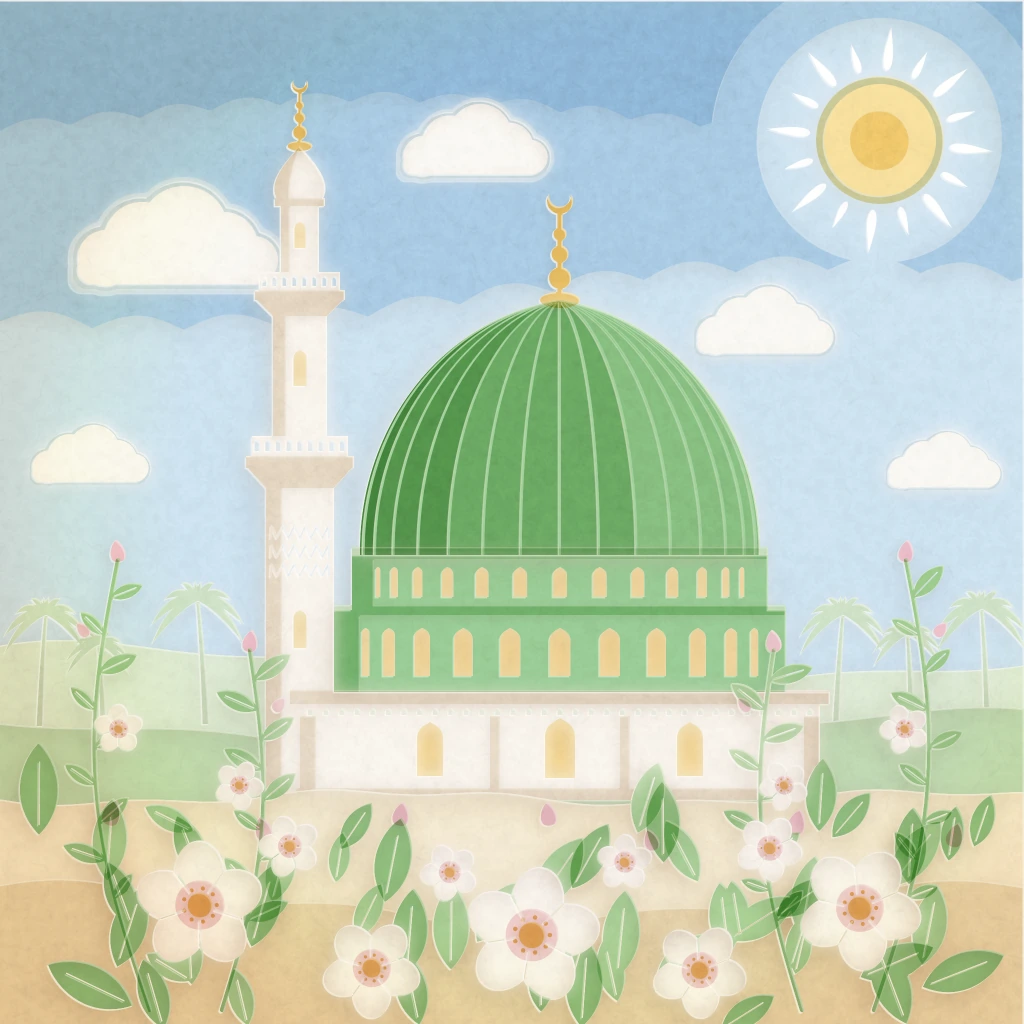
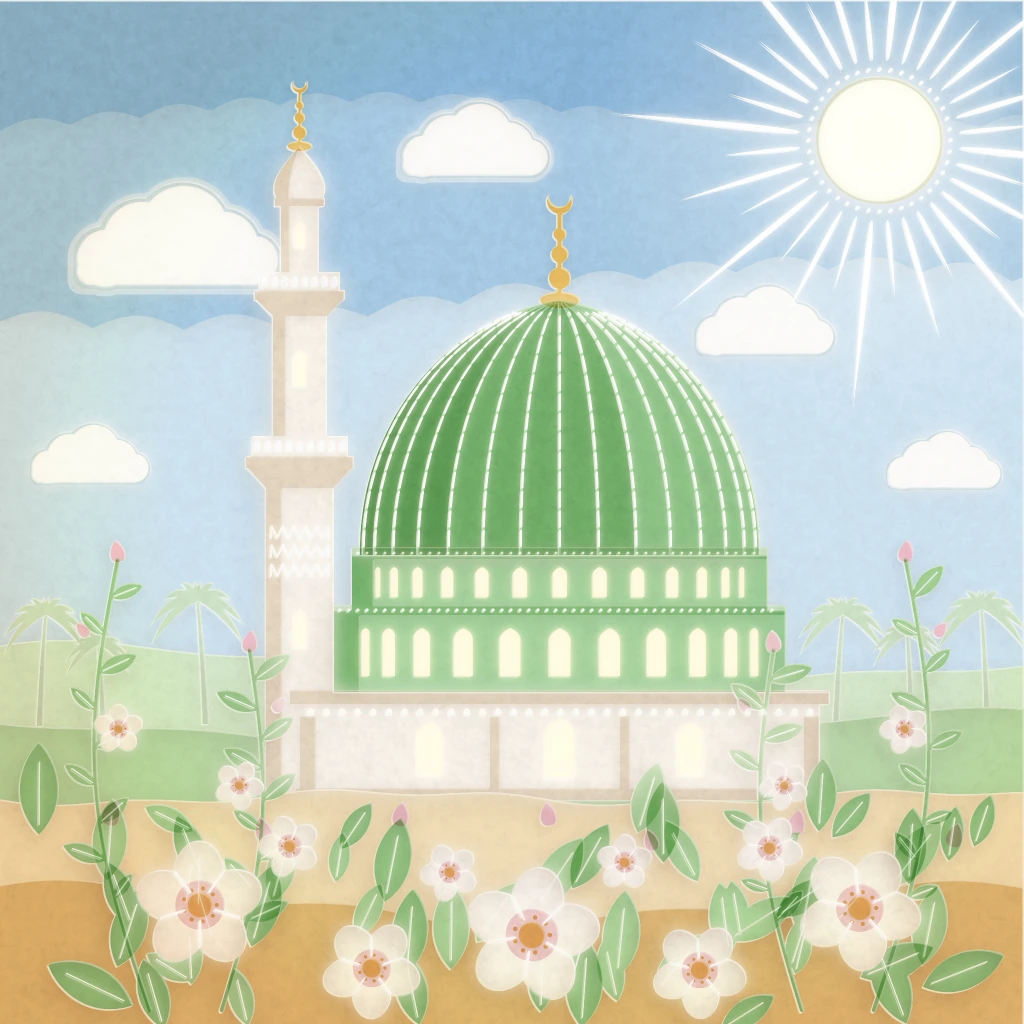
Atölye: dördüncü tur gözden geçirmelerinin ara kaydı
Claude-Session: https://claude.ai/code/session_01Q8CfoBGMPN7gfLWQYpMs1J

diff --git a/atolye/stiller/S-134-isikli-kagit-kutu/ornek.html b/atolye/stiller/S-134-isikli-kagit-kutu/ornek.html
@@ -282,7 +282,7 @@
     p.lineTo(1024, 1024); p.closePath();
     return p;
   }
-  katman('tepe1', (g) => { g.fill(tepe(668, 24, 0.6)); }, '#E1EFD8', { hale: { x: -4, y: 6, b: 12, a: 0.12 } });
+  katman('tepe1', (g) => { g.fill(tepe(668, 24, 0.6)); }, '#D9EDCE', { hale: { x: -4, y: 6, b: 12, a: 0.12 } });
   // uzak hurma ağaçları: iki tepe katı arasında ince siluetler (gövde dipleri öndeki tepenin arkasında kalır)
   function hurma(g, x, y, h, egik) {
     const tx = x + egik, ty = y - h;
@@ -306,7 +306,7 @@
   katman('hurma', (g) => {
     for (const [x, y, h, e] of [[40, 726, 112, 6], [104, 732, 88, -5], [206, 724, 124, -8], [836, 730, 116, 7], [912, 726, 92, -4], [988, 728, 120, -6]]) hurma(g, x, y, h, e);
   }, '#D4E8CC', { hale: { x: -3, y: 4, b: 8, a: 0.1 }, kenar: 0.4, isilti: 0.35, isiltiB: 6 });
-  katman('tepe2', (g) => { g.fill(tepe(730, 18, 2.3)); }, '#C6DFB9', { hale: { x: -4, y: 6, b: 12, a: 0.13 } });
+  katman('tepe2', (g) => { g.fill(tepe(730, 18, 2.3)); }, '#BCDCAC', { hale: { x: -4, y: 6, b: 12, a: 0.13 } });
 
   // ------------------------------------------------------------ 5–9: minare ve kaide — ince beyaz kâğıt, oyma pencereler parlar
   // pencerelerin arkasında amber ipek kâğıt (pencereler sıcak ışıkla yanar)
@@ -314,7 +314,10 @@
     for (const w of SAHNE.minarePencereleri) g.fill(P(dik(w.x - w.w / 2 - 2, w.y - 2, w.x + w.w / 2 + 2, w.y + w.h + 2)));
     for (const w of K.pencereler) g.fill(P(dik(w.x - w.w / 2 - 2, w.y - 2, w.x + w.w / 2 + 2, w.y + w.h + 2)));
     for (const k of [0, 1]) for (const p of SAHNE.kasnakPencereleri(k)) g.fill(P(dik(p.x - p.w / 2 - 1.5, p.y - 1.5, p.x + p.w / 2 + 1.5, p.y + p.h + 1.5)));
-  }, '#FFDF96', { hale: { a: 0 }, kenar: 0 });
+  }, '#FFE3A0', { hale: { a: 0 }, kenar: 0 });
+  for (const d of Yl.minarePencereleri) parla(d, 0, '#FFD780', 0.95);
+  for (const d of Yl.kaidePencereleri) parla(d, 0, '#FFD780', 0.95);
+  for (const d of Yl.kasnakPencereleri) parla(d, 0, '#FFD780', 0.95);
   katman('bina', (g) => {
     for (const d of Yl.minare) g.fill(P(d));
     g.fill(P(Yl.kaide)); g.fill(P(Yl.kornis));
@@ -324,14 +327,15 @@
     const zz = new Path2D();
     for (const z of SAHNE.zikzakCizgileri()) zz.addPath(P(SAHNE.yol(z.map(([x, y]) => [Math.max(271, Math.min(329, x)), y]))));
     yarik(g, zz, 1.8);
+    parla(zz, 1.8, '#FFF1D0', 0.8);
     // korkuluklarda kemer delikleri
     for (const [ad, n, w, h] of [['korkuluk-1', 9, 5.5, 11], ['korkuluk-2', 8, 5, 10]]) {
       const k = mp(ad);
-      for (let i = 0; i < n; i++) delik(g, SAHNE.kemerYolu(k.x1 + ((k.x2 - k.x1) * (i + 0.5)) / n, k.y1 + 4, w, h));
+      for (let i = 0; i < n; i++) { const kp = SAHNE.kemerYolu(k.x1 + ((k.x2 - k.x1) * (i + 0.5)) / n, k.y1 + 4, w, h); delik(g, kp); parla(kp, 0, '#FFF1D0', 0.8); }
     }
     // kaidede kör kemer frizi: küçük kemer delikleri
-    for (let x = 311; x <= 812; x += 15.6) delik(g, SAHNE.kemerYolu(x, 708, 6, 7));
-  }, '#FDF7EE', { hale: { x: -5, y: 7, b: 14, a: 0.16 }, kenar: 0.5, isilti: 0.55, isiltiB: 9 });
+    for (let x = 311; x <= 812; x += 15.6) { const kp = SAHNE.kemerYolu(x, 708, 6, 7); delik(g, kp); parla(kp, 0, '#FFF1D0', 0.8); }
+  }, '#FDF7EE', { hale: { x: -5, y: 7, b: 14, a: 0.16 }, kenar: 0.5, isilti: 0.8, isiltiB: 10 });
   // ikinci kat beyaz kâğıt: şerefeler, çıkmalar, bilezik, korniş, pilastrlar, taban silmesi (iki kat → daha tok)
   katman('bina', (g) => {
     for (const ad of ['çıkma-1', 'çıkma-2', 'şerefe-1', 'şerefe-2', 'bilezik']) g.fill(P(SAHNE.yol(mp(ad).noktalar, true)));
@@ -349,10 +353,16 @@
   katman('bina', (g) => {
     g.fill(P(Yl.kasnakAlt)); g.fill(P(Yl.kasnakUst));
     for (const d of Yl.kasnakPencereleri) delik(g, d);
+    delik(g, IGNE);
   }, '#9FD39B', { hale: { x: -5, y: 7, b: 14, a: 0.18 }, kenar: 0.45, isilti: 0.4, isiltiB: 9 });
+  const IGNE = new Path2D();
+  for (let x = 340; x <= 780; x += 9) { IGNE.moveTo(x + 1.5, 610); IGNE.arc(x, 610, 1.5, 0, TAU); }
+  for (let x = 358; x <= 762; x += 9) { IGNE.moveTo(x + 1.4, 553); IGNE.arc(x, 553, 1.4, 0, TAU); }
+  parla(IGNE, 0, '#FFF4D6', 0.95);
   katman('bina', (g) => {
     g.fill(P(dik(334, 605, 786, 615))); g.fill(P(dik(352, 547, 768, 559)));
     g.fill(P(dik(334, 610, 360, 692))); g.fill(P(dik(352, 555, 374, 610)));
+    delik(g, IGNE);
   }, '#C2E3BC', { hale: { x: -2, y: 3, b: 5, a: 0.12 }, kenar: 0.3 });
 
   // ------------------------------------------------------------ 13–17: kubbe — dilim dilim üst üste ipek kâğıt (sol tarafta katlar artar → gölge)
@@ -367,11 +377,14 @@
     }
     return sol.length > 1 ? P(SAHNE.yol(sol.concat(sag.reverse()), true)) : new Path2D();
   }
-  katman('bina', (g) => { g.fill(P(Yl.kubbe)); }, '#A7D8A2', { hale: { x: -6, y: 8, b: 16, a: 0.18 }, kenar: 0.45, isilti: 0.6, isiltiB: 11 });
-  katman('bina', (g) => { for (let k = 0; k < 16; k++) g.fill(dilimYolu(k, 16, 0.9)); }, '#DDF0D8', { hale: { a: 0 }, kenar: 0.35 });
-  katman('bina', (g) => { for (let k = 0; k < 10; k++) g.fill(dilimYolu(k, 16, 0.9)); }, '#D3EBCD', { hale: { a: 0 }, kenar: 0.25 });
-  katman('bina', (g) => { for (let k = 0; k < 5; k++) g.fill(dilimYolu(k, 16, 0.9)); }, '#CFE8C9', { hale: { a: 0 }, kenar: 0.2 });
-  katman('bina', (g) => { for (let k = 0; k < 2; k++) g.fill(dilimYolu(k, 16, 0.9)); }, '#CFE8C9', { hale: { a: 0 }, kenar: 0.2 });
+  const KABURGA = new Path2D();
+  for (const k of SAHNE.kaburgalar(16, 80)) KABURGA.addPath(kesikCizgi(k.noktalar.filter((q) => q[1] > 312 && q[1] < 551), 15, 4.5));
+  parla(KABURGA, 1.9, '#FFF6DC', 1);
+  katman('bina', (g) => { g.fill(P(Yl.kubbe)); yarik(g, KABURGA, 1.9); }, '#A7D8A2', { hale: { x: -6, y: 8, b: 16, a: 0.18 }, kenar: 0.45, isilti: 0.6, isiltiB: 11 });
+  katman('bina', (g) => { for (let k = 0; k < 16; k++) g.fill(dilimYolu(k, 16, 0.9)); yarik(g, KABURGA, 1.9); }, '#DDF0D8', { hale: { a: 0 }, kenar: 0.35 });
+  katman('bina', (g) => { for (let k = 0; k < 10; k++) g.fill(dilimYolu(k, 16, 0.9)); yarik(g, KABURGA, 1.9); }, '#D3EBCD', { hale: { a: 0 }, kenar: 0.25 });
+  katman('bina', (g) => { for (let k = 0; k < 5; k++) g.fill(dilimYolu(k, 16, 0.9)); yarik(g, KABURGA, 1.9); }, '#CFE8C9', { hale: { a: 0 }, kenar: 0.2 });
+  katman('bina', (g) => { for (let k = 0; k < 2; k++) g.fill(dilimYolu(k, 16, 0.9)); yarik(g, KABURGA, 1.9); }, '#CFE8C9', { hale: { a: 0 }, kenar: 0.2 });
 
   // ------------------------------------------------------------ 18: zemin — kum rengi kâğıt
   katman('zemin', (g) => {
@@ -379,13 +392,13 @@
     for (let x = 0; x <= 1024; x += 4) p.lineTo(x, 797 + 6 * Math.sin(x / 88 + 0.4) + 3 * Math.sin(x / 29));
     p.lineTo(1024, 1024); p.closePath();
     g.fill(p);
-  }, '#F9EDD2', { hale: { x: -4, y: 6, b: 12, a: 0.14 } });
+  }, '#F7E3BC', { hale: { x: -4, y: 6, b: 12, a: 0.14 } });
   katman('zemin', (g) => {
     const p = new Path2D(); p.moveTo(0, 1024);
     for (let x = 0; x <= 1024; x += 4) p.lineTo(x, 904 - 18 * Math.sin(x / 150 + 1.2) - 7 * Math.sin(x / 47 + 0.3));
     p.lineTo(1024, 1024); p.closePath();
     g.fill(p);
-  }, '#F9F0DE', { hale: { x: -4, y: 6, b: 12, a: 0.12 } });
+  }, '#F1D9AC', { hale: { x: -4, y: 6, b: 12, a: 0.12 } });
 
   // ------------------------------------------------------------ 19–24: bitkiler — yeşil kâğıt yapraklar (damarları kesik), parlayan beyaz çiçekler
   function damarlar(g, liste) {
@@ -395,6 +408,7 @@
       p.moveTo(a[0] + (b[0] - a[0]) * 0.12, a[1] + (b[1] - a[1]) * 0.12); p.lineTo(a[0] + (b[0] - a[0]) * 0.85, a[1] + (b[1] - a[1]) * 0.85);
     }
     yarik(g, p, 1.1);
+    parla(p, 1.1, '#F6FFE8', 0.55);
   }
   katman('bitki', (g) => {
     g.lineCap = 'round'; g.lineWidth = 4.5; g.stroke(SAPLAR);
@@ -423,8 +437,9 @@
         ks.lineTo(c.x + Math.cos(a) * c.r * 0.66, c.y + Math.sin(a) * c.r * 0.66);
       }
       yarik(g, ks, Math.max(1, c.r * 0.035));
+      parla(ks, Math.max(1, c.r * 0.035), '#FFF8EC', 0.8);
     }
-  }, '#FFF9F2', { hale: { x: -5, y: 7, b: 12, a: 0.2 }, kenar: 0.5, isilti: 0.45, isiltiB: 7 });
+  }, '#FFF9F2', { hale: { x: -5, y: 7, b: 12, a: 0.2 }, kenar: 0.5, isilti: 0.7, isiltiB: 8 });
   katman('cicek', (g) => { for (const c of B.cicekler) { g.beginPath(); g.arc(c.x, c.y, c.r * 0.4, 0, TAU); g.fill(); } }, '#F9D6DE', { hale: { a: 0 }, kenar: 0.3 });
   katman('cicek', (g) => { for (const c of B.cicekler) { g.beginPath(); g.arc(c.x, c.y, c.r * 0.2, 0, TAU); g.fill(); } }, '#F6CF6E', { hale: { x: -1, y: 2, b: 3, a: 0.14 }, kenar: 0.3 });
   katman('cicek', (g) => {
@@ -436,20 +451,26 @@
 
   isle();
 
-  // ------------------------------------------------------------ ışık taşması: parlak delik ve kâğıtların çevresinde yumuşak parıltı
+  // ------------------------------------------------------------ ışık taşması: kesiklerden doğrudan geçen ışık parlar ve çevresine taşar
   (function parilti() {
-    const n = 512, t = SAHNE.yeniTuval(n, n), tg = t.getContext('2d', { willReadFrequently: true });
-    tg.drawImage(ana.canvas, 0, 0, n, n);
-    const im = tg.getImageData(0, 0, n, n), D = im.data;
-    for (let i = 0; i < D.length; i += 4) {
-      const l = (D[i] * 0.3 + D[i + 1] * 0.59 + D[i + 2] * 0.11) / 255;
-      const k = Math.max(0, (l - 0.86) / 0.14);
-      D[i] = 255; D[i + 1] = 244; D[i + 2] = 220; D[i + 3] = k * 255;
+    // çekirdek: kesiklerin içi neredeyse beyaz, sıcak
+    ana.save(); ana.setTransform(1, 0, 0, 1, 0, 0);
+    ana.globalCompositeOperation = 'screen';
+    ana.globalAlpha = 0.75; ana.drawImage(ISIK, 0, 0);
+    // üç yarıçapta taşma: dar (keskin parıltı), orta, geniş (yumuşak hale)
+    const n = 1024, t = SAHNE.yeniTuval(n, n), tg = t.getContext('2d');
+    for (const [b, a] of [[2.5, 0.85], [7, 0.6], [18, 0.42]]) {
+      tg.setTransform(1, 0, 0, 1, 0, 0); tg.clearRect(0, 0, n, n);
+      tg.filter = `blur(${b}px)`; tg.drawImage(ISIK, 0, 0, n, n); tg.filter = 'none';
+      ana.globalAlpha = a; ana.drawImage(t, 0, 0, W2, W2);
     }
-    tg.putImageData(im, 0, 0);
-    const b = SAHNE.yeniTuval(n, n), bg = b.getContext('2d');
-    bg.filter = 'blur(5px)'; bg.drawImage(t, 0, 0);
-    ana.save(); ana.globalCompositeOperation = 'screen'; ana.globalAlpha = 0.6; ana.drawImage(b, 0, 0, 1024, 1024); ana.restore();
+    ana.restore();
+    // güneşin çevresinde sıcak ışık taşması
+    ana.save(); ana.globalCompositeOperation = 'screen';
+    const g = ana.createRadialGradient(GX, GY, 40, GX, GY, 300);
+    g.addColorStop(0, 'rgba(255,240,200,0.55)'); g.addColorStop(0.4, 'rgba(255,240,205,0.18)'); g.addColorStop(1, 'rgba(255,240,210,0)');
+    ana.fillStyle = g; ana.fillRect(0, 0, 1024, 1024);
+    ana.restore();
   })();
 
   SAHNE.hazir();
